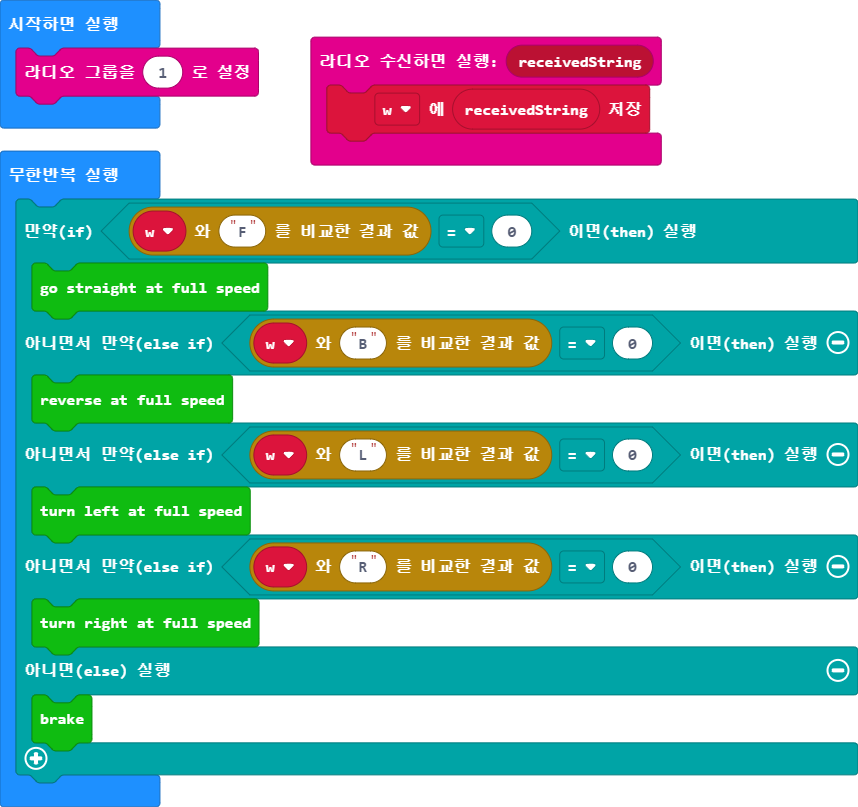
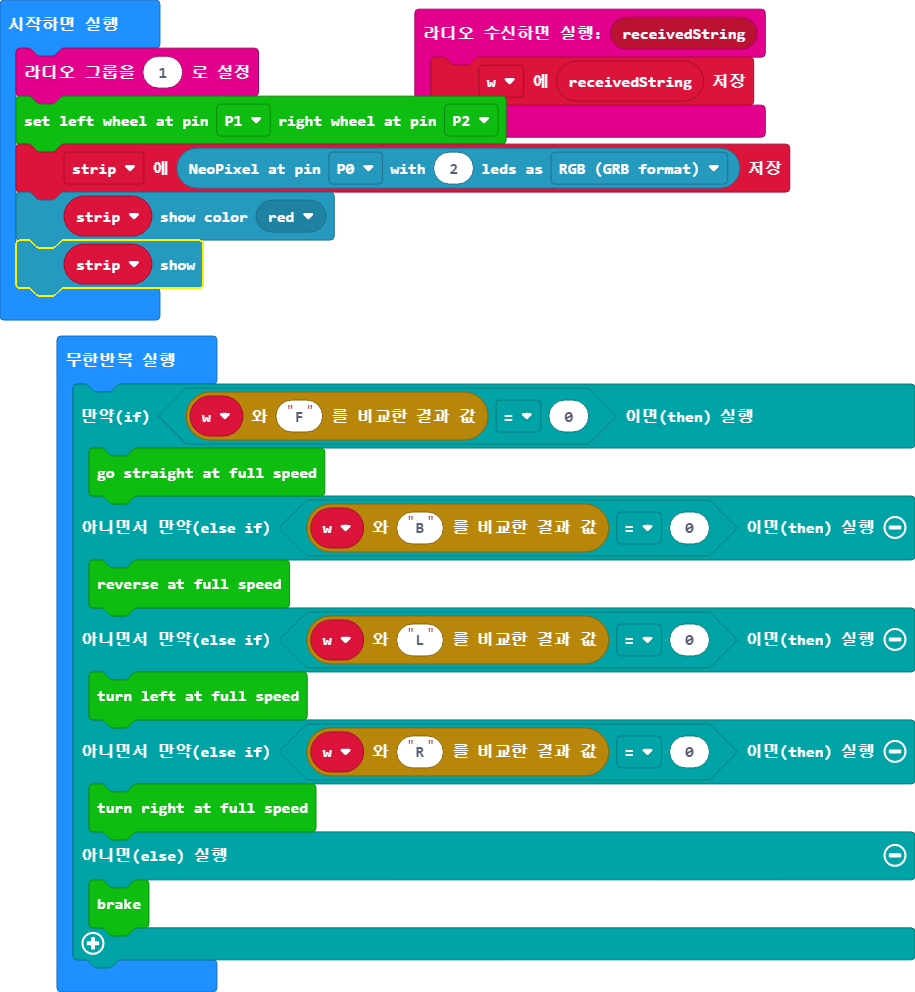
main.blocks, main.ts 업데이트하기

diff --git a/main.ts b/main.ts
@@ -3,6 +3,10 @@ radio.onReceivedString(function (receivedString) {
 })
 let w = ""
 radio.setGroup(1)
+RingbitCar.init_wheel(AnalogPin.P1, AnalogPin.P2)
+let strip = neopixel.create(DigitalPin.P0, 2, NeoPixelMode.RGB)
+strip.showColor(neopixel.colors(NeoPixelColors.Red))
+strip.show()
 basic.forever(function () {
     if (w.compare("F") == 0) {
         RingbitCar.forward()
